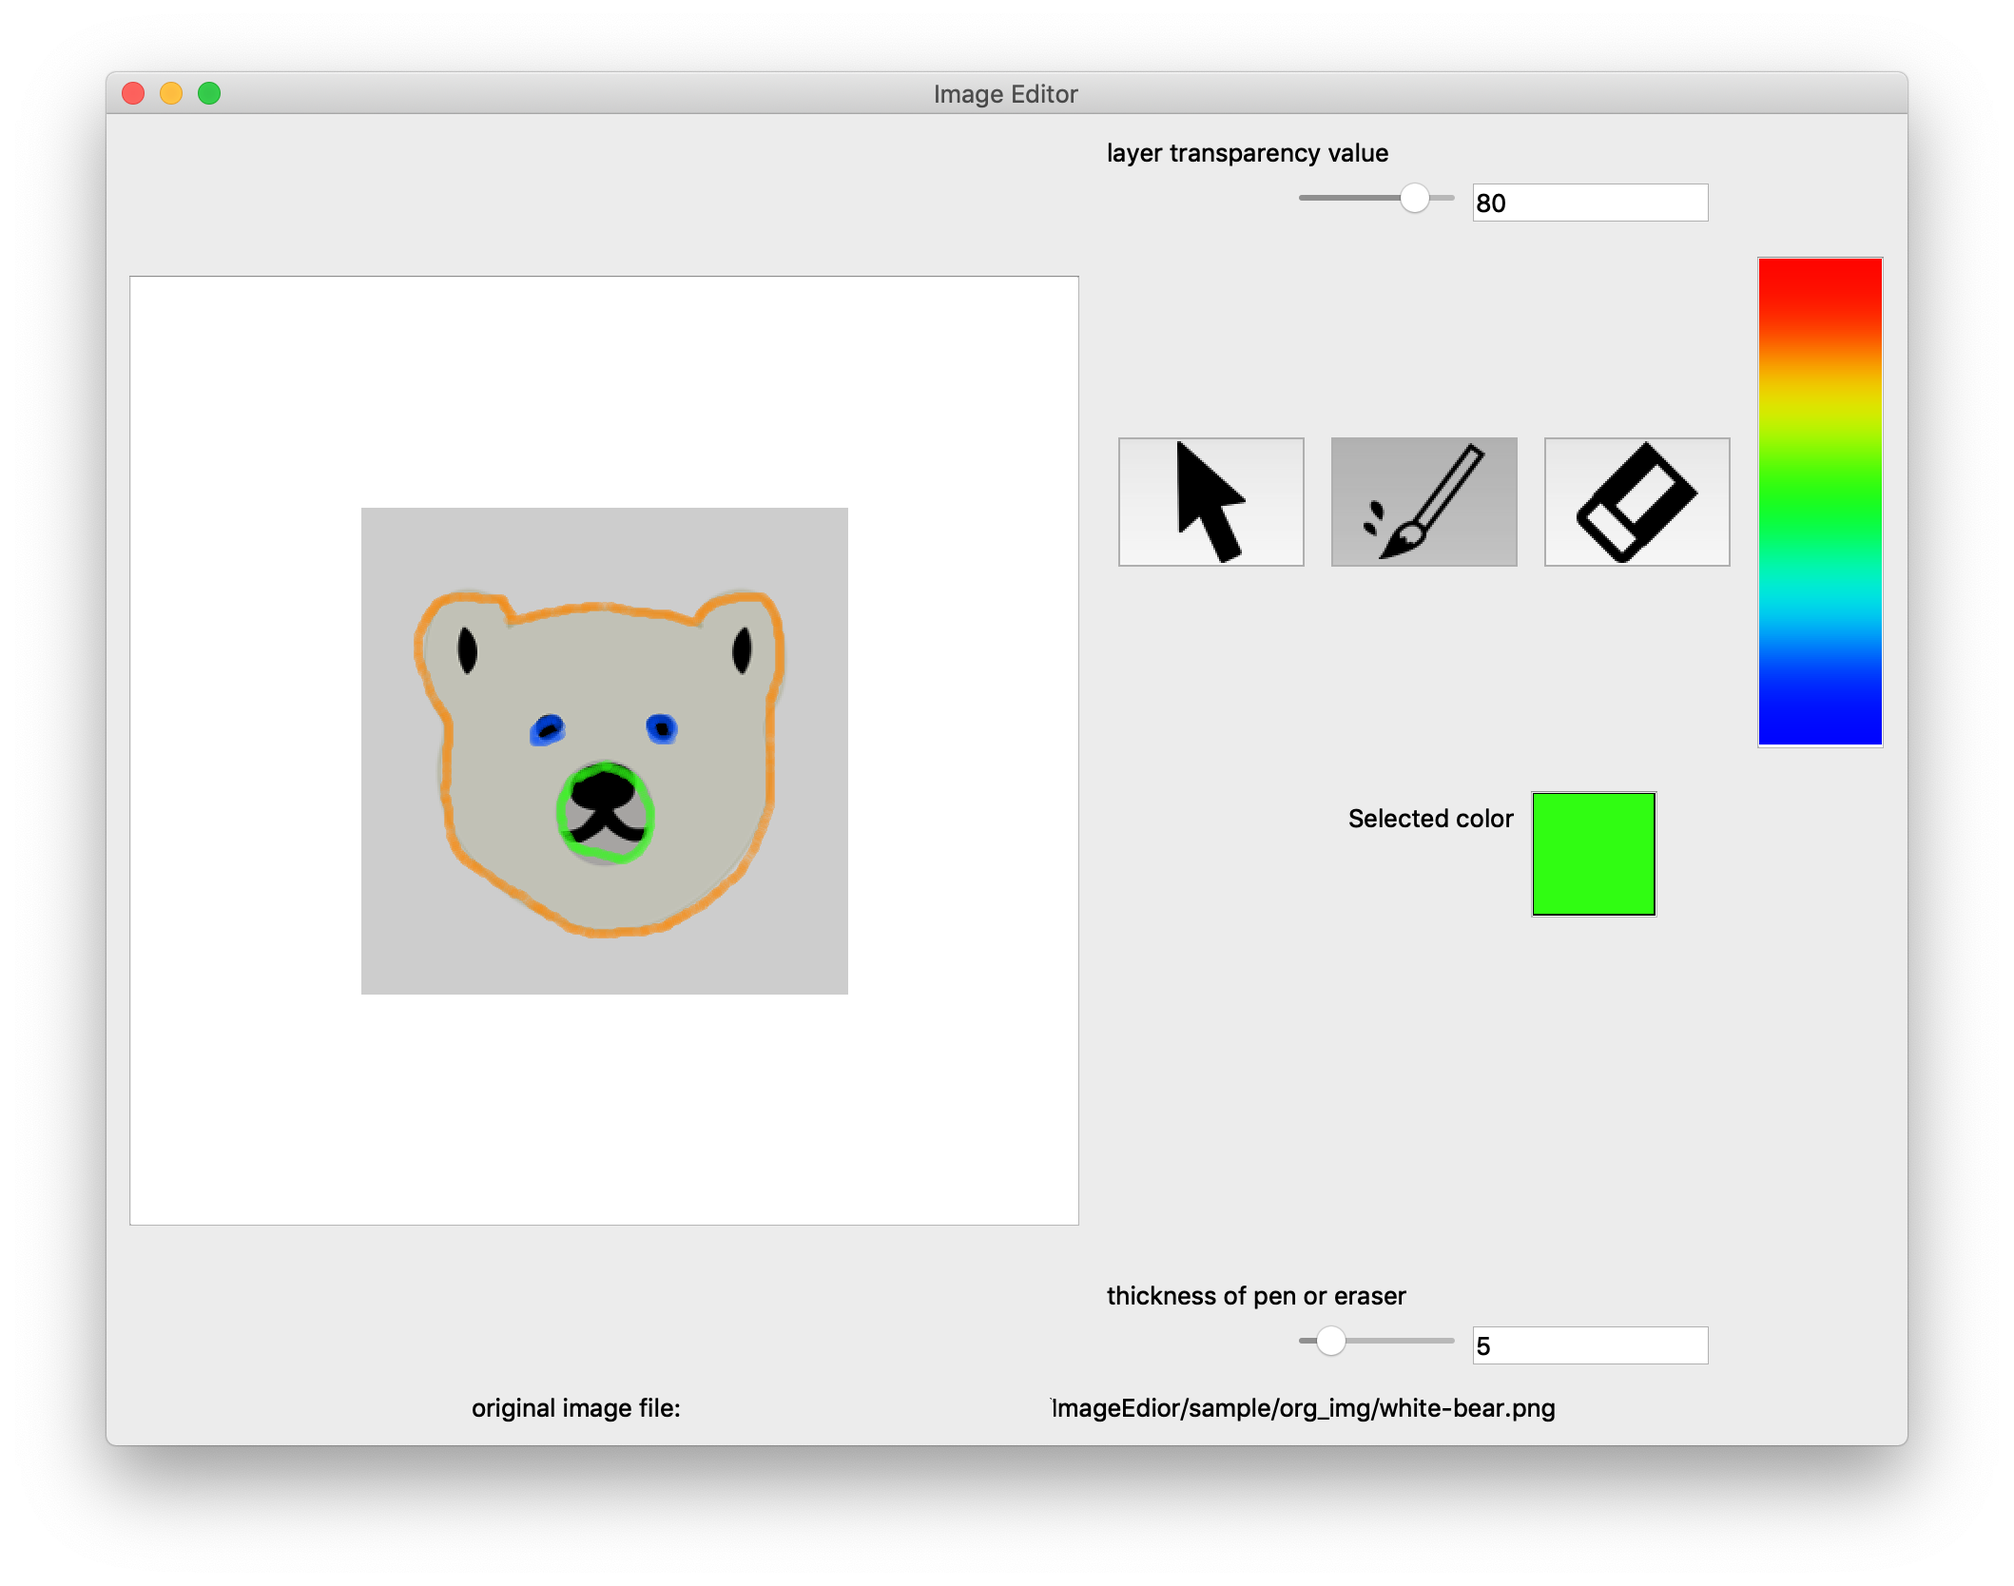
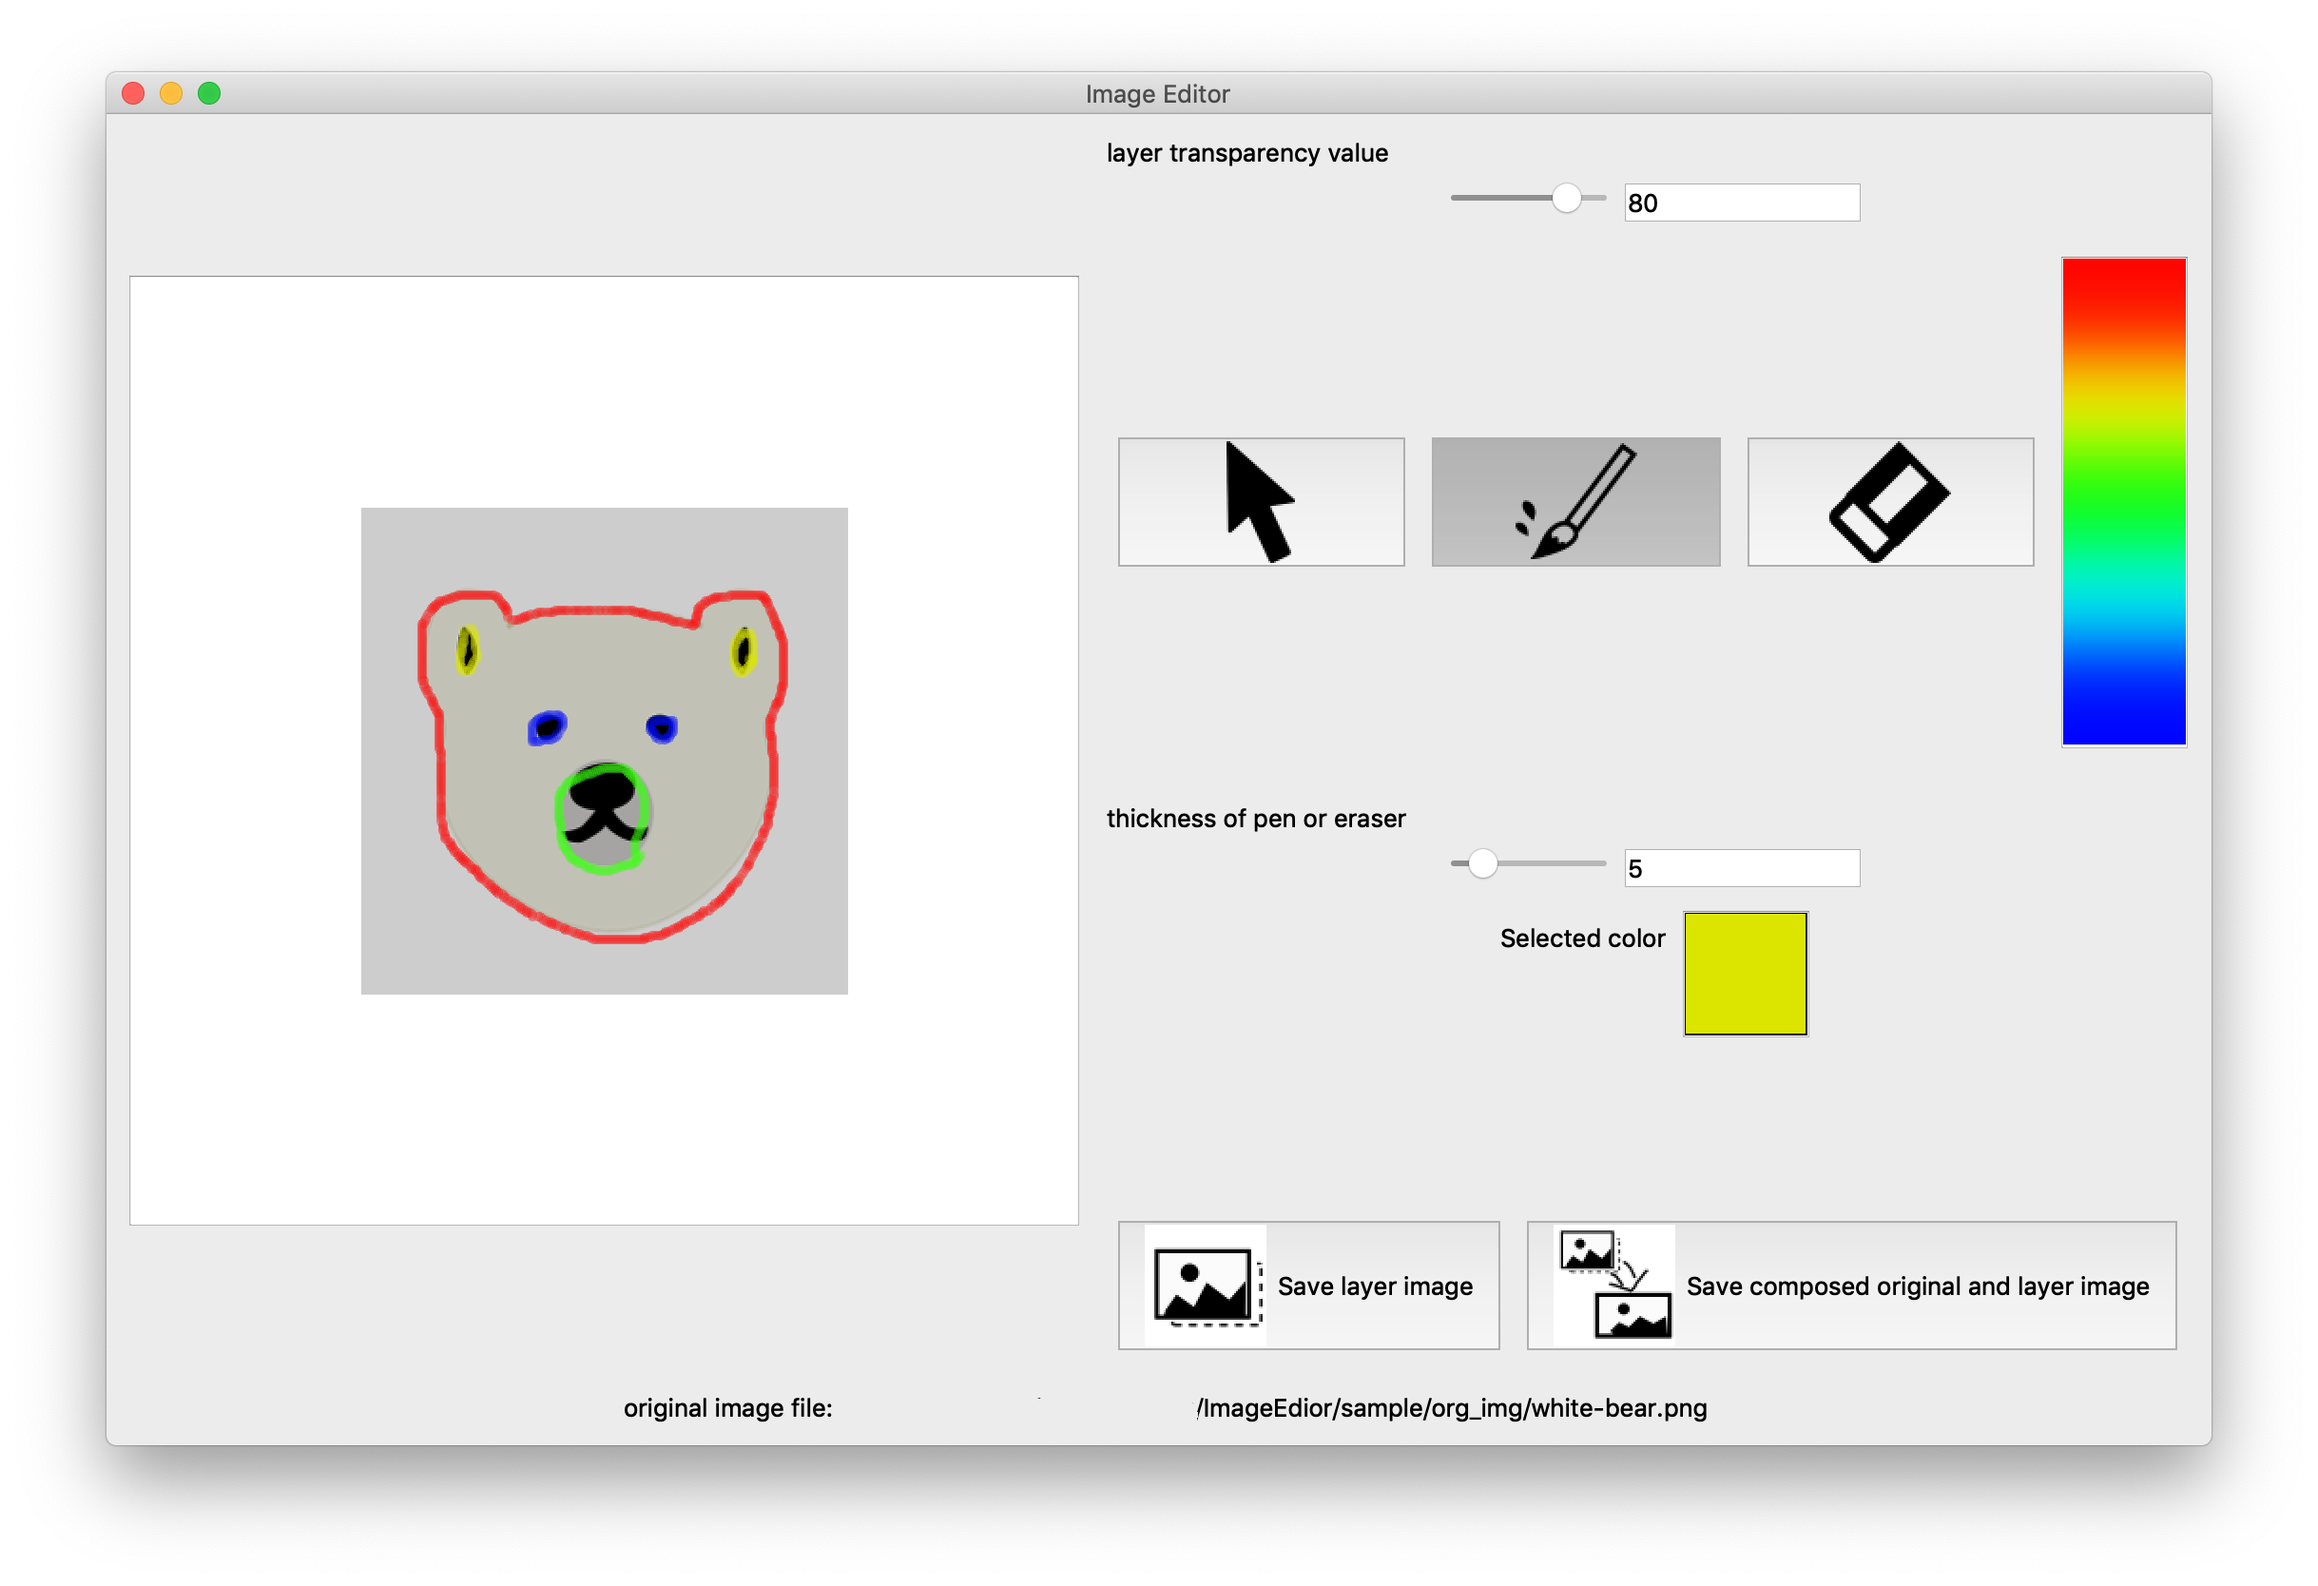
update README

diff --git a/README.md b/README.md
@@ -1,5 +1,6 @@
 # Image Editor Application
-Application of Image viewer function and drawing funcion in layerd image has tranparency value.
+Application of Image viewer function and drawing and file saving funcion on layer image has tranparency value.  
+
 
 # Required
 This application made by Qt for Python (PySide2).
